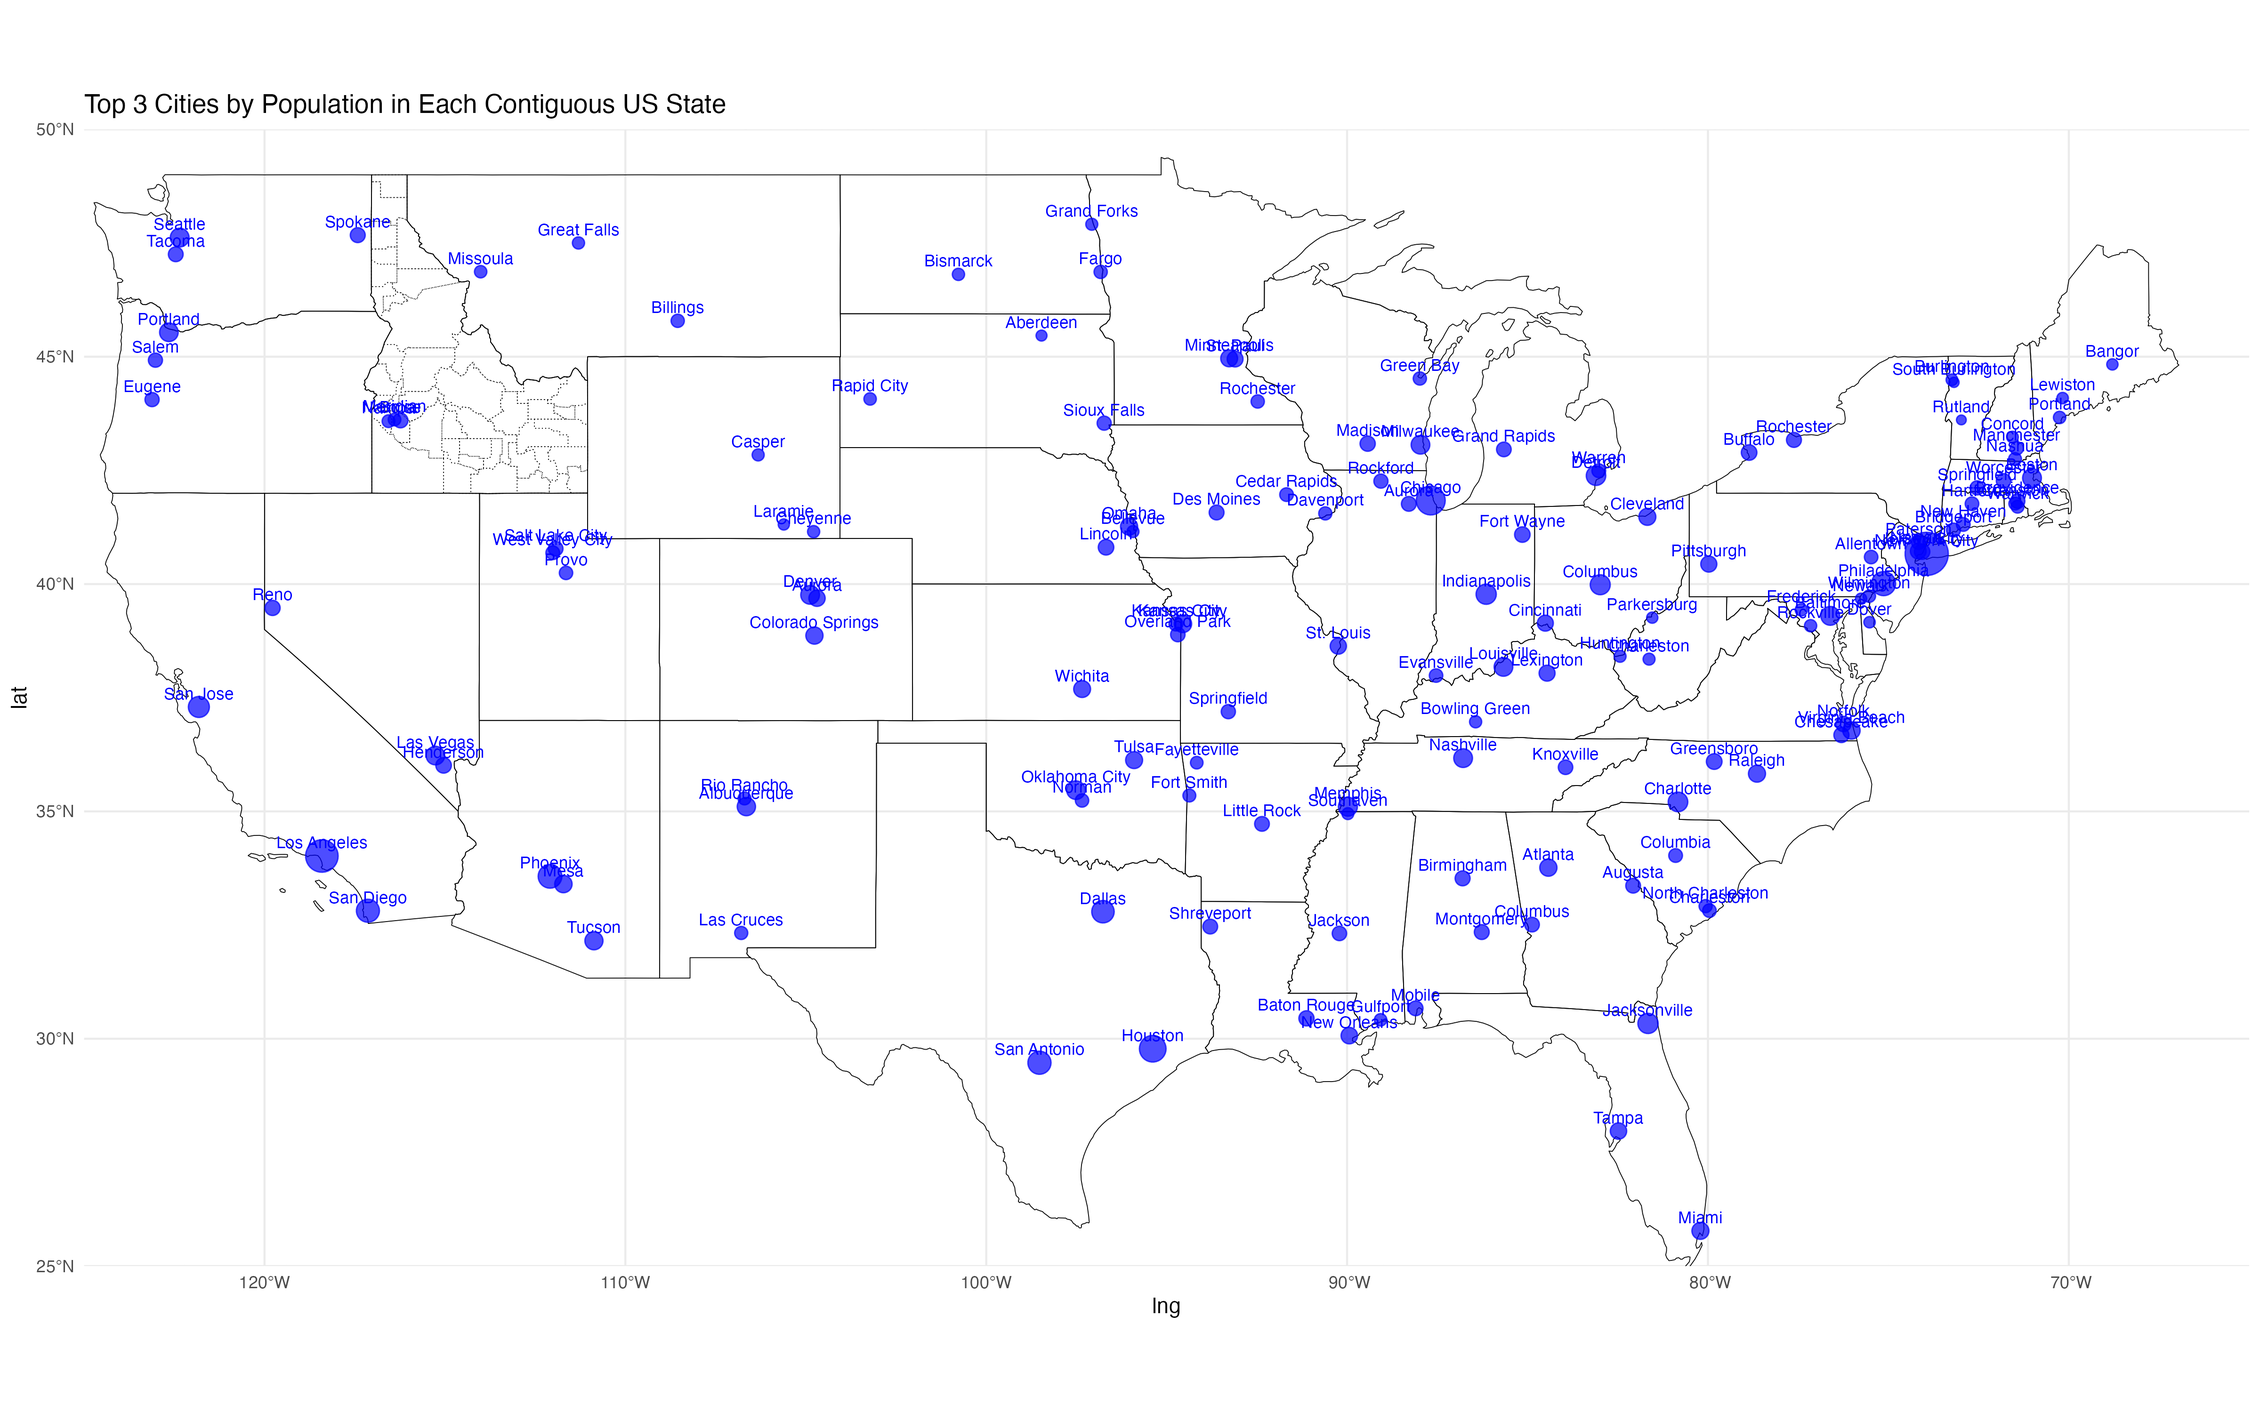
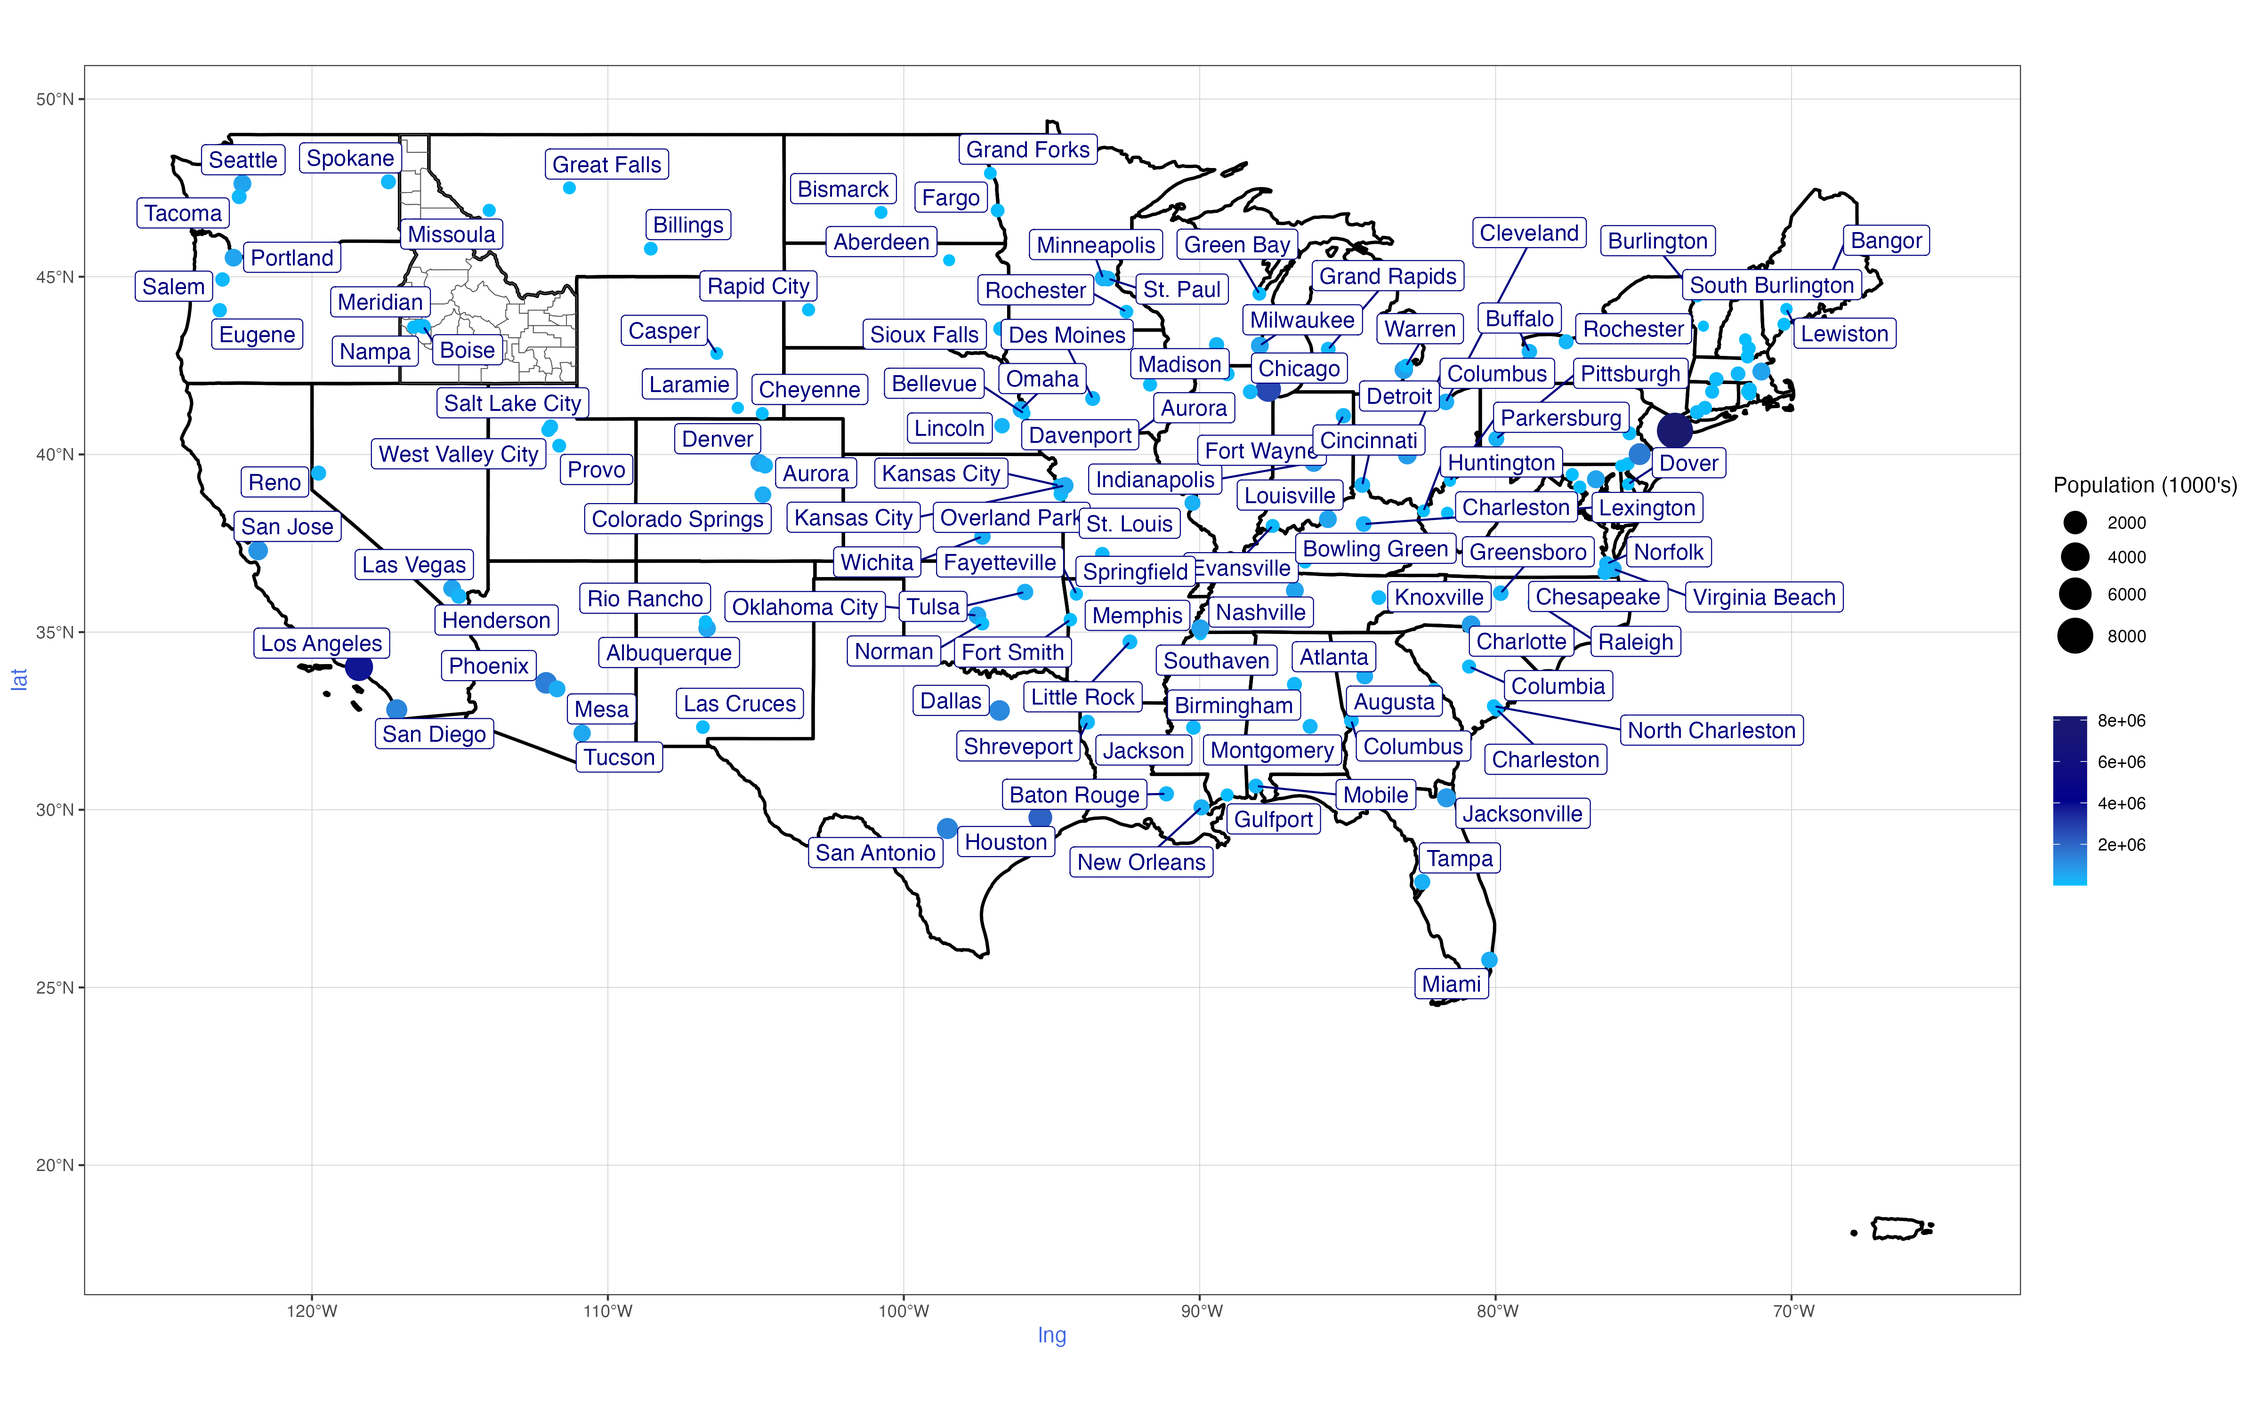
Add

diff --git a/week_08/Task - U.S. Cities.html b/week_08/Task - U.S. Cities.html
@@ -7,7 +7,7 @@
 <meta name="viewport" content="width=device-width, initial-scale=1.0, user-scalable=yes">
 
 <meta name="author" content="Scott Townsend">
-<meta name="dcterms.date" content="2024-11-04">
+<meta name="dcterms.date" content="2024-11-12">
 
 <title>W08 Task - U.S. Cities</title>
 <style>
@@ -98,7 +98,7 @@ pre > code.sourceCode > span > a:first-child::before { text-decoration: underlin
     <div>
     <div class="quarto-title-meta-heading">Published</div>
     <div class="quarto-title-meta-contents">
-      <p class="date">November 4, 2024</p>
+      <p class="date">November 12, 2024</p>
     </div>
   </div>
   
@@ -118,7 +118,8 @@ pre > code.sourceCode > span > a:first-child::before { text-decoration: underlin
 <div class="sourceCode cell-code" id="cb1"><pre class="sourceCode numberSource r number-lines code-with-copy"><code class="sourceCode r"><span id="cb1-1"><a href="#cb1-1"></a><span class="fu">library</span>(USAboundaries)</span>
 <span id="cb1-2"><a href="#cb1-2"></a><span class="fu">library</span>(dplyr)</span>
 <span id="cb1-3"><a href="#cb1-3"></a><span class="fu">library</span>(ggplot2)</span>
-<span id="cb1-4"><a href="#cb1-4"></a><span class="fu">library</span>(sf)</span></code><button title="Copy to Clipboard" class="code-copy-button"><i class="bi"></i></button></pre></div>
+<span id="cb1-4"><a href="#cb1-4"></a><span class="fu">library</span>(sf)</span>
+<span id="cb1-5"><a href="#cb1-5"></a><span class="fu">library</span>(ggrepel)</span></code><button title="Copy to Clipboard" class="code-copy-button"><i class="bi"></i></button></pre></div>
 </details>
 </div>
 </section>
@@ -133,9 +134,9 @@ pre > code.sourceCode > span > a:first-child::before { text-decoration: underlin
 <span id="cb2-4"><a href="#cb2-4"></a>idaho_counties <span class="ot">&lt;-</span> <span class="fu">us_counties</span>(<span class="at">states =</span> <span class="st">"Idaho"</span>)</span>
 <span id="cb2-5"><a href="#cb2-5"></a></span>
 <span id="cb2-6"><a href="#cb2-6"></a>cities <span class="ot">&lt;-</span> <span class="fu">us_cities</span>() <span class="sc">%&gt;%</span></span>
-<span id="cb2-7"><a href="#cb2-7"></a>  <span class="fu">filter</span>(state_name <span class="sc">%in%</span> state.name) <span class="sc">%&gt;%</span></span>
-<span id="cb2-8"><a href="#cb2-8"></a>  <span class="fu">arrange</span>(state_name, <span class="fu">desc</span>(population)) <span class="sc">%&gt;%</span></span>
-<span id="cb2-9"><a href="#cb2-9"></a>  <span class="fu">group_by</span>(state_name) <span class="sc">%&gt;%</span></span>
+<span id="cb2-7"><a href="#cb2-7"></a>  <span class="fu">filter</span>(state_abbr <span class="sc">!=</span> <span class="st">"HI"</span> <span class="sc">&amp;</span> state_abbr <span class="sc">!=</span> <span class="st">"AK"</span> <span class="sc">&amp;</span> state_abbr <span class="sc">!=</span> <span class="st">"PR"</span> <span class="sc">&amp;</span> state_abbr <span class="sc">!=</span> <span class="st">"DC"</span>) <span class="sc">%&gt;%</span></span>
+<span id="cb2-8"><a href="#cb2-8"></a>  <span class="fu">group_by</span>(state_name) <span class="sc">%&gt;%</span></span>
+<span id="cb2-9"><a href="#cb2-9"></a>  <span class="fu">arrange</span>(<span class="fu">desc</span>(population)) <span class="sc">%&gt;%</span></span>
 <span id="cb2-10"><a href="#cb2-10"></a>  <span class="fu">slice_head</span>(<span class="at">n =</span> <span class="dv">3</span>) <span class="sc">%&gt;%</span></span>
 <span id="cb2-11"><a href="#cb2-11"></a>  <span class="fu">mutate</span>(<span class="at">rank =</span> <span class="fu">row_number</span>()) <span class="sc">%&gt;%</span></span>
 <span id="cb2-12"><a href="#cb2-12"></a>  <span class="fu">ungroup</span>()</span>
@@ -144,15 +145,29 @@ pre > code.sourceCode > span > a:first-child::before { text-decoration: underlin
 <span id="cb2-15"><a href="#cb2-15"></a>  <span class="fu">mutate</span>(<span class="at">lng =</span> <span class="fu">st_coordinates</span>(geometry)[, <span class="dv">1</span>],</span>
 <span id="cb2-16"><a href="#cb2-16"></a>         <span class="at">lat =</span> <span class="fu">st_coordinates</span>(geometry)[, <span class="dv">2</span>])</span>
 <span id="cb2-17"><a href="#cb2-17"></a></span>
-<span id="cb2-18"><a href="#cb2-18"></a><span class="fu">ggplot</span>() <span class="sc">+</span></span>
-<span id="cb2-19"><a href="#cb2-19"></a>  <span class="fu">geom_sf</span>(<span class="at">data =</span> states, <span class="at">fill =</span> <span class="cn">NA</span>, <span class="at">color =</span> <span class="st">"black"</span>, <span class="at">size =</span> <span class="fl">0.5</span>) <span class="sc">+</span></span>
-<span id="cb2-20"><a href="#cb2-20"></a>  <span class="fu">geom_sf</span>(<span class="at">data =</span> idaho_counties, <span class="at">fill =</span> <span class="cn">NA</span>, <span class="at">color =</span> <span class="st">"black"</span>, <span class="at">linetype =</span> <span class="st">"dotted"</span>, <span class="at">size =</span> <span class="fl">0.3</span>) <span class="sc">+</span></span>
-<span id="cb2-21"><a href="#cb2-21"></a>  <span class="fu">geom_point</span>(<span class="at">data =</span> cities, <span class="fu">aes</span>(<span class="at">x =</span> lng, <span class="at">y =</span> lat, <span class="at">size =</span> population), <span class="at">color =</span> <span class="st">"blue"</span>, <span class="at">alpha =</span> <span class="fl">0.7</span>) <span class="sc">+</span></span>
-<span id="cb2-22"><a href="#cb2-22"></a>  <span class="fu">scale_size_continuous</span>(<span class="at">range =</span> <span class="fu">c</span>(<span class="dv">2</span>, <span class="dv">10</span>), <span class="at">breaks =</span> <span class="fu">c</span>(<span class="dv">2000</span>, <span class="dv">4000</span>, <span class="dv">6000</span>, <span class="dv">8000</span>), <span class="at">labels =</span> <span class="fu">c</span>(<span class="st">"2000"</span>, <span class="st">"4000"</span>, <span class="st">"6000"</span>, <span class="st">"8000"</span>), <span class="at">name =</span> <span class="st">"Population (1,000)"</span>) <span class="sc">+</span></span>
-<span id="cb2-23"><a href="#cb2-23"></a>  <span class="fu">geom_text</span>(<span class="at">data =</span> cities, <span class="fu">aes</span>(<span class="at">x =</span> lng, <span class="at">y =</span> lat, <span class="at">label =</span> city), <span class="at">size =</span> <span class="dv">3</span>, <span class="at">color =</span> <span class="st">"blue"</span>, <span class="at">nudge_y =</span> <span class="fl">0.3</span>) <span class="sc">+</span></span>
-<span id="cb2-24"><a href="#cb2-24"></a>  <span class="fu">coord_sf</span>(<span class="at">xlim =</span> <span class="fu">c</span>(<span class="sc">-</span><span class="dv">125</span>, <span class="sc">-</span><span class="dv">65</span>), <span class="at">ylim =</span> <span class="fu">c</span>(<span class="dv">25</span>, <span class="dv">50</span>), <span class="at">expand =</span> <span class="cn">FALSE</span>) <span class="sc">+</span></span>
-<span id="cb2-25"><a href="#cb2-25"></a>  <span class="fu">theme_minimal</span>() <span class="sc">+</span></span>
-<span id="cb2-26"><a href="#cb2-26"></a>  <span class="fu">labs</span>(<span class="at">title =</span> <span class="st">"Top 3 Cities by Population in Each Contiguous US State"</span>)</span></code><button title="Copy to Clipboard" class="code-copy-button"><i class="bi"></i></button></pre></div>
+<span id="cb2-18"><a href="#cb2-18"></a>cities_coords <span class="ot">&lt;-</span> <span class="fu">st_coordinates</span>(cities)</span>
+<span id="cb2-19"><a href="#cb2-19"></a>cities<span class="sc">$</span>lon <span class="ot">&lt;-</span> cities_coords[, <span class="dv">1</span>]</span>
+<span id="cb2-20"><a href="#cb2-20"></a>cities<span class="sc">$</span>lat <span class="ot">&lt;-</span> cities_coords[, <span class="dv">2</span>]</span>
+<span id="cb2-21"><a href="#cb2-21"></a></span>
+<span id="cb2-22"><a href="#cb2-22"></a><span class="fu">ggplot</span>() <span class="sc">+</span> </span>
+<span id="cb2-23"><a href="#cb2-23"></a>  <span class="fu">geom_sf</span>(<span class="at">data =</span> states, <span class="at">fill =</span> <span class="cn">NA</span>, <span class="at">color =</span> <span class="st">"black"</span>, <span class="at">linewidth =</span> <span class="fl">0.8</span>) <span class="sc">+</span></span>
+<span id="cb2-24"><a href="#cb2-24"></a>  <span class="fu">geom_sf</span>(<span class="at">data =</span> idaho_counties, <span class="at">fill =</span> <span class="cn">NA</span>) <span class="sc">+</span></span>
+<span id="cb2-25"><a href="#cb2-25"></a>  <span class="fu">geom_sf</span>(<span class="at">data =</span> cities, <span class="fu">aes</span>(<span class="at">color =</span> population, <span class="at">size =</span> population <span class="sc">/</span> <span class="dv">1000</span>)) <span class="sc">+</span></span>
+<span id="cb2-26"><a href="#cb2-26"></a>  <span class="fu">geom_label_repel</span>(<span class="fu">aes</span>(<span class="at">label =</span> city, <span class="at">x =</span> lng, <span class="at">y =</span> lat), <span class="at">data =</span> cities, <span class="at">size =</span> <span class="dv">4</span>, <span class="at">color =</span> <span class="st">"navyblue"</span>) <span class="sc">+</span></span>
+<span id="cb2-27"><a href="#cb2-27"></a>  <span class="fu">labs</span>(<span class="at">size =</span> <span class="st">"Population (1000's)"</span>, <span class="at">color =</span> <span class="fu">element_blank</span>()) <span class="sc">+</span></span>
+<span id="cb2-28"><a href="#cb2-28"></a>  <span class="fu">scale_size_continuous</span>(<span class="at">range =</span> <span class="fu">c</span>(<span class="dv">2</span>, <span class="dv">8</span>)) <span class="sc">+</span></span>
+<span id="cb2-29"><a href="#cb2-29"></a>  <span class="fu">scale_color_gradientn</span>(<span class="at">colors =</span> <span class="fu">c</span>(<span class="st">"deepskyblue"</span>, <span class="st">"darkblue"</span>, <span class="st">"midnightblue"</span>)) <span class="sc">+</span></span>
+<span id="cb2-30"><a href="#cb2-30"></a>  <span class="fu">theme_bw</span>() <span class="sc">+</span></span>
+<span id="cb2-31"><a href="#cb2-31"></a>  <span class="fu">theme</span>(</span>
+<span id="cb2-32"><a href="#cb2-32"></a>    <span class="at">legend_title =</span> <span class="fu">element_text</span>(<span class="at">color =</span> <span class="st">"royalblue"</span>, <span class="at">face =</span> <span class="st">"bold"</span>),</span>
+<span id="cb2-33"><a href="#cb2-33"></a>    <span class="at">panel.background =</span> <span class="fu">element_rect</span>(<span class="at">fill =</span> <span class="st">"white"</span>, <span class="at">color =</span> <span class="cn">NA</span>),</span>
+<span id="cb2-34"><a href="#cb2-34"></a>    <span class="at">plot.background =</span> <span class="fu">element_rect</span>(<span class="at">fill =</span> <span class="st">"white"</span>, <span class="at">color =</span> <span class="cn">NA</span>),</span>
+<span id="cb2-35"><a href="#cb2-35"></a>    <span class="at">plot.title =</span> <span class="fu">element_text</span>(<span class="at">color =</span> <span class="st">"royalblue"</span>, <span class="at">face =</span> <span class="st">"bold"</span>, <span class="at">size =</span> <span class="dv">16</span>),</span>
+<span id="cb2-36"><a href="#cb2-36"></a>    <span class="at">axis.title.x =</span> <span class="fu">element_text</span>(<span class="at">color =</span> <span class="st">"royalblue"</span>),</span>
+<span id="cb2-37"><a href="#cb2-37"></a>    <span class="at">axis.title.y =</span> <span class="fu">element_text</span>(<span class="at">color =</span> <span class="st">"royalblue"</span>),</span>
+<span id="cb2-38"><a href="#cb2-38"></a>    <span class="at">panel.grid.major =</span> <span class="fu">element_line</span>(<span class="at">color =</span> <span class="st">"lightgrey"</span>, <span class="at">size =</span> <span class="fl">0.2</span>),</span>
+<span id="cb2-39"><a href="#cb2-39"></a>    <span class="at">panel.grid.minor =</span> <span class="fu">element_blank</span>()</span>
+<span id="cb2-40"><a href="#cb2-40"></a>  )</span></code><button title="Copy to Clipboard" class="code-copy-button"><i class="bi"></i></button></pre></div>
 </details>
 <div class="cell-output-display">
 <div>

diff --git a/week_08/Task - U.S. Cities.html.md b/week_08/Task - U.S. Cities.html.md
@@ -1,7 +1,7 @@
 ---
 title: "W08 Task - U.S. Cities"
 author: "Scott Townsend"
-date: "November 04, 2024"
+date: "November 12, 2024"
 
 execute:
   keep-md: true
@@ -24,6 +24,7 @@ library(USAboundaries)
 library(dplyr)
 library(ggplot2)
 library(sf)
+library(ggrepel)
 ```
 :::
 
@@ -40,9 +41,9 @@ states <- us_states() %>%
 idaho_counties <- us_counties(states = "Idaho")
 
 cities <- us_cities() %>%
-  filter(state_name %in% state.name) %>%
-  arrange(state_name, desc(population)) %>%
+  filter(state_abbr != "HI" & state_abbr != "AK" & state_abbr != "PR" & state_abbr != "DC") %>%
   group_by(state_name) %>%
+  arrange(desc(population)) %>%
   slice_head(n = 3) %>%
   mutate(rank = row_number()) %>%
   ungroup()
@@ -51,15 +52,29 @@ cities <- cities %>%
   mutate(lng = st_coordinates(geometry)[, 1],
          lat = st_coordinates(geometry)[, 2])
 
-ggplot() +
-  geom_sf(data = states, fill = NA, color = "black", size = 0.5) +
-  geom_sf(data = idaho_counties, fill = NA, color = "black", linetype = "dotted", size = 0.3) +
-  geom_point(data = cities, aes(x = lng, y = lat, size = population), color = "blue", alpha = 0.7) +
-  scale_size_continuous(range = c(2, 10), breaks = c(2000, 4000, 6000, 8000), labels = c("2000", "4000", "6000", "8000"), name = "Population (1,000)") +
-  geom_text(data = cities, aes(x = lng, y = lat, label = city), size = 3, color = "blue", nudge_y = 0.3) +
-  coord_sf(xlim = c(-125, -65), ylim = c(25, 50), expand = FALSE) +
-  theme_minimal() +
-  labs(title = "Top 3 Cities by Population in Each Contiguous US State")
+cities_coords <- st_coordinates(cities)
+cities$lon <- cities_coords[, 1]
+cities$lat <- cities_coords[, 2]
+
+ggplot() + 
+  geom_sf(data = states, fill = NA, color = "black", linewidth = 0.8) +
+  geom_sf(data = idaho_counties, fill = NA) +
+  geom_sf(data = cities, aes(color = population, size = population / 1000)) +
+  geom_label_repel(aes(label = city, x = lng, y = lat), data = cities, size = 4, color = "navyblue") +
+  labs(size = "Population (1000's)", color = element_blank()) +
+  scale_size_continuous(range = c(2, 8)) +
+  scale_color_gradientn(colors = c("deepskyblue", "darkblue", "midnightblue")) +
+  theme_bw() +
+  theme(
+    legend_title = element_text(color = "royalblue", face = "bold"),
+    panel.background = element_rect(fill = "white", color = NA),
+    plot.background = element_rect(fill = "white", color = NA),
+    plot.title = element_text(color = "royalblue", face = "bold", size = 16),
+    axis.title.x = element_text(color = "royalblue"),
+    axis.title.y = element_text(color = "royalblue"),
+    panel.grid.major = element_line(color = "lightgrey", size = 0.2),
+    panel.grid.minor = element_blank()
+  )
 ```
 
 ::: {.cell-output-display}
